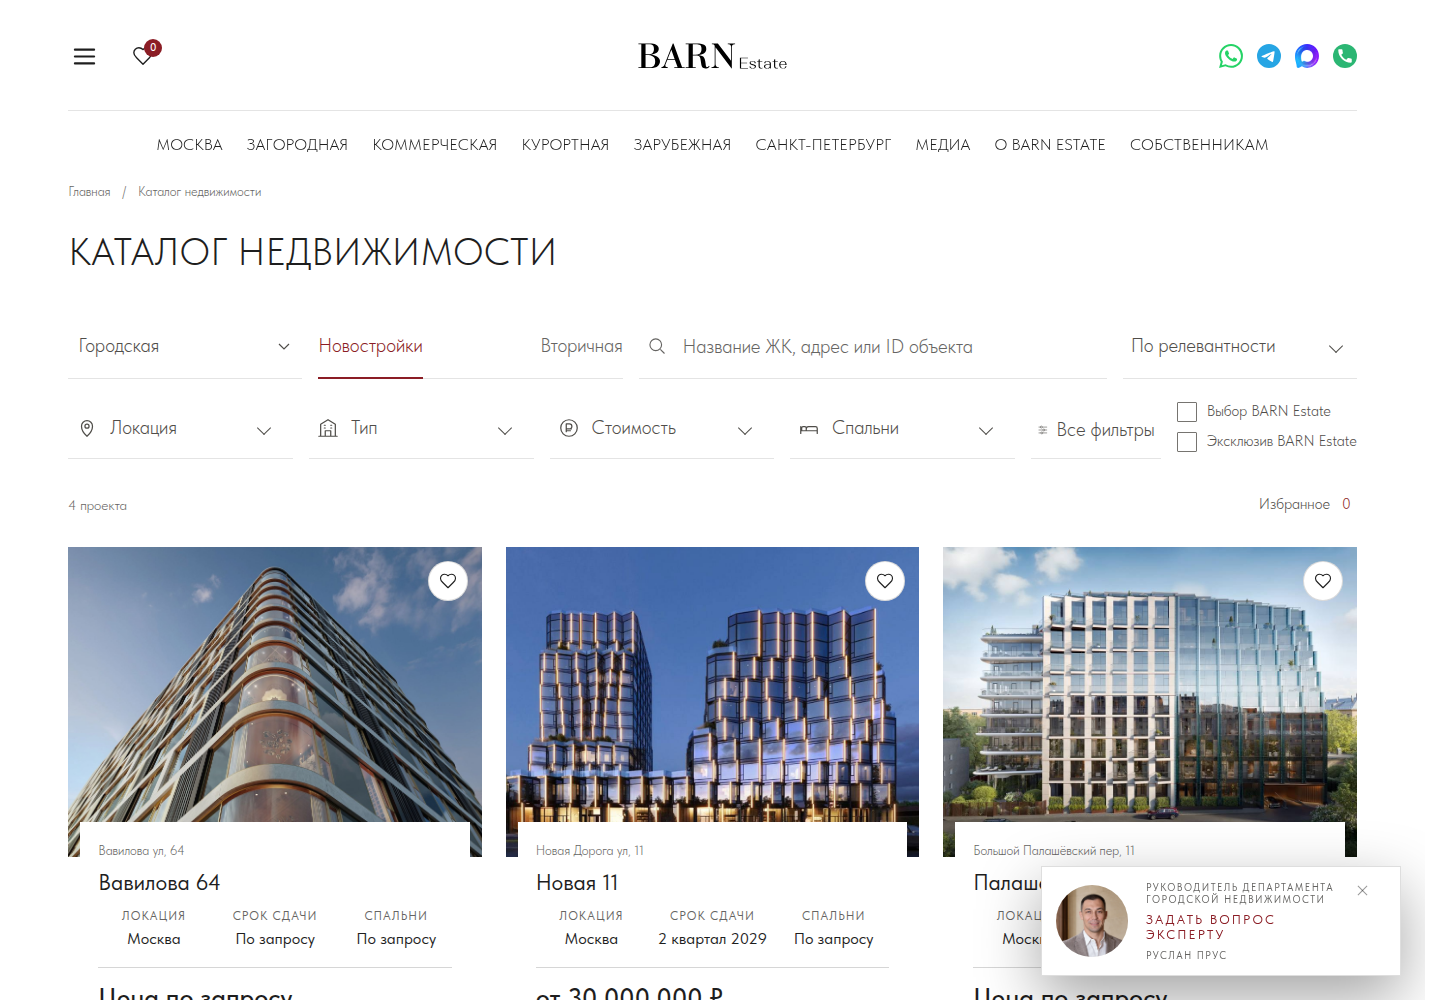
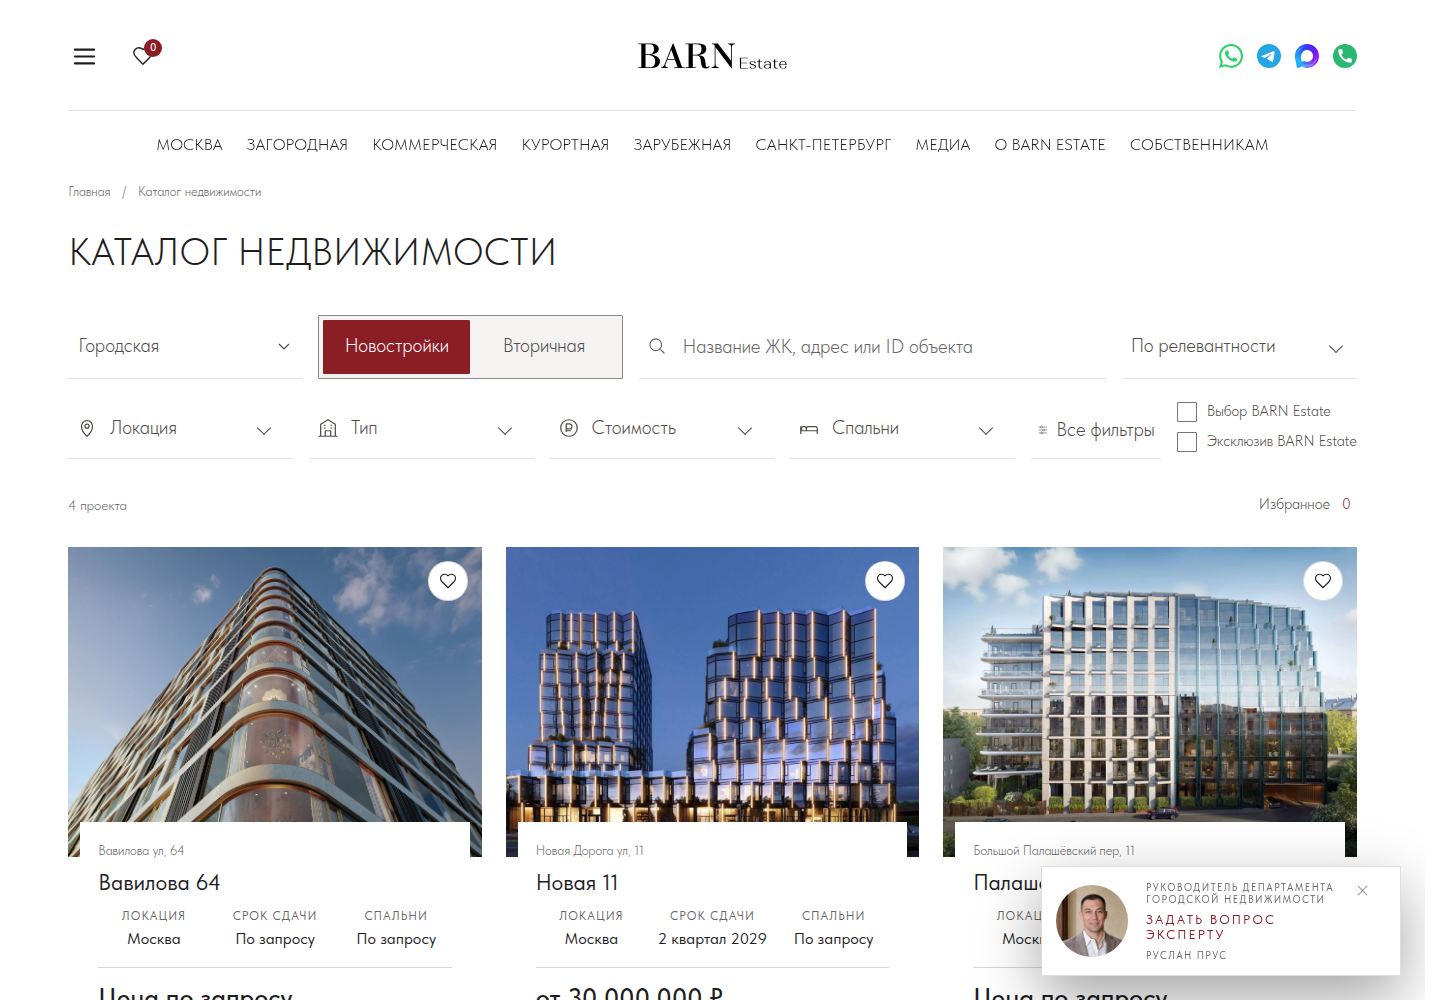
Group market choices into one segmented control

Changed region(s): [[0.2188, 0.31, 0.4375, 0.403]]

diff --git a/katalog-nedvizhimosti/index.html b/katalog-nedvizhimosti/index.html
@@ -1,7 +1,7 @@
 <!doctype html><html lang="ru"><head><meta charset="utf-8"><meta name="viewport" content="width=device-width,initial-scale=1"><meta name="robots" content="noindex,nofollow"><title>Каталог недвижимости — BARN Estate</title><meta name="description" content="Каталог недвижимости BARN Estate: новостройки и вторичная недвижимость. Локация, стоимость, тип объекта и спальни.">
 <link rel="stylesheet" href="kit/_shared/source.css"><link rel="stylesheet" href="kit/_shared/ui-kit.css"><link rel="stylesheet" href="kit/_shared/listing-mode.css"><link rel="stylesheet" href="kit/_shared/brand-filters.css"><link rel="stylesheet" href="reference-shell/live-header.css?v=20261101-kit-v1"><link rel="stylesheet" href="reference-shell/menu.css?v=20261101-kit-v1"><link rel="stylesheet" href="listing.css?v=20261101-kit-v1">
 <script src="kit/filters-modal/filters-template.js" defer></script><script src="direction-profiles.js?v=20261019-directions" defer></script><script src="filter-adapter.js?v=20261101-kit-v1" defer></script><script src="kit/filters-modal/filters-modal.js" defer></script><script src="kit/quick-filter-dropdowns/quick-filters.js?v=20261101-kit-v1" defer></script><script src="kit/quick-filter-dropdowns/brand-filters.js?v=20261101-kit-v1" defer></script><script src="kit-v1/quiz.js?v=20261101" defer></script><script src="listing.js?v=20261101-kit-v1" defer></script>
-<link rel="stylesheet" href="kit-v1/footer.css?v=20261101"><link rel="stylesheet" href="kit-v1/quiz.css?v=20261101"><link rel="stylesheet" href="kit-v1/home-typography.css?v=20261101"><link rel="stylesheet" href="kit-v1/home-spacing.css?v=20261101"><link rel="stylesheet" href="kit-v1/home-header-contacts.css?v=20261101"><link rel="stylesheet" href="kit-v1/home-buttons.css?v=20261101"><link rel="stylesheet" href="catalog-kit-v1.css?v=20261101"></head><body data-home-spacing-ready="true" class="barnes-header-template catalog-listing-page barnes-home-typography"><a class="skip-link" href="#results">Перейти к объектам</a><div class="layout__header" data-v-47bd53e9=""><header class="site-header site-header--catalog" data-v-47bd53e9="" data-v-63dbb988=""><div class="site-header__inner base-container" data-v-63dbb988=""><div class="site-header__top" data-v-63dbb988=""><div class="site-header__left" data-v-63dbb988=""><button type="button" class="site-header__icon-btn" aria-expanded="false" aria-controls="site-mobile-menu" aria-label="Открыть меню" data-v-63dbb988=""><span class="ui-icon ui-icon-current site-header__icon" data-v-63dbb988="" data-v-8bd2f545=""><svg xmlns="http://www.w3.org/2000/svg" width="24" height="24" viewBox="0 0 24 24" fill="none" stroke="currentColor" stroke-width="1.5" stroke-linecap="round">
+<link rel="stylesheet" href="kit-v1/footer.css?v=20261101"><link rel="stylesheet" href="kit-v1/quiz.css?v=20261101"><link rel="stylesheet" href="kit-v1/home-typography.css?v=20261101"><link rel="stylesheet" href="kit-v1/home-spacing.css?v=20261101"><link rel="stylesheet" href="kit-v1/home-header-contacts.css?v=20261101"><link rel="stylesheet" href="kit-v1/home-buttons.css?v=20261101"><link rel="stylesheet" href="catalog-kit-v1.css?v=20261101-segments"></head><body data-home-spacing-ready="true" class="barnes-header-template catalog-listing-page barnes-home-typography"><a class="skip-link" href="#results">Перейти к объектам</a><div class="layout__header" data-v-47bd53e9=""><header class="site-header site-header--catalog" data-v-47bd53e9="" data-v-63dbb988=""><div class="site-header__inner base-container" data-v-63dbb988=""><div class="site-header__top" data-v-63dbb988=""><div class="site-header__left" data-v-63dbb988=""><button type="button" class="site-header__icon-btn" aria-expanded="false" aria-controls="site-mobile-menu" aria-label="Открыть меню" data-v-63dbb988=""><span class="ui-icon ui-icon-current site-header__icon" data-v-63dbb988="" data-v-8bd2f545=""><svg xmlns="http://www.w3.org/2000/svg" width="24" height="24" viewBox="0 0 24 24" fill="none" stroke="currentColor" stroke-width="1.5" stroke-linecap="round">
   <path d="M5 7h14"></path>
   <path d="M5 12h14"></path>
   <path d="M5 17h14"></path>

diff --git a/katalog-nedvizhimosti/catalog-kit-v1.css b/katalog-nedvizhimosti/catalog-kit-v1.css
@@ -84,3 +84,10 @@ html body.catalog-listing-page .catalog-grid__item{container-type:inline-size}
 html body.catalog-listing-page .resort-filters .ui-checkbox__box{border-color:#8b8986!important;border-radius:1px}
 html body.catalog-listing-page .resort-filters .ui-checkbox__input:checked+.ui-checkbox__box{background:#8b1d25!important;border-color:#8b1d25!important;box-shadow:none!important}
 html body.catalog-listing-page .resort-filters .ui-checkbox__input:checked+.ui-checkbox__box .ui-checkbox__icon{display:block!important;color:#fff}
+/* A single segmented shape groups the mutually exclusive market/deal choices. */
+html body.catalog-listing-page .catalog-toolbar__primary .catalog-mode-switch{box-sizing:border-box;display:flex;gap:0;padding:4px;border:1px solid #8b8986;border-radius:1px;background:#f5f3f1}
+html body.catalog-listing-page .catalog-toolbar__primary .catalog-mode-switch__button{box-sizing:border-box;flex:1 1 0;min-width:0;height:54px;min-height:0;padding:0 2px;border:0;border-radius:1px;background:transparent;color:#4f4d49;text-align:center;transition:background-color .15s ease,color .15s ease}
+html body.catalog-listing-page .catalog-toolbar__primary .catalog-mode-switch__button.is-active{background:#8b1d25;color:#fff}
+html body.catalog-listing-page .catalog-toolbar__primary .catalog-mode-switch__button.is-active::after{display:none}
+html body.catalog-listing-page .catalog-toolbar__primary .catalog-mode-switch__button:not(.is-active):hover{background:#eae7e3;color:#1e1e1e}
+html body.catalog-listing-page .catalog-toolbar__primary .catalog-mode-switch__button:focus-visible{outline:2px solid #1e1e1e;outline-offset:-3px}

diff --git a/katalog-nedvizhimosti/README.md b/katalog-nedvizhimosti/README.md
@@ -33,3 +33,7 @@ node katalog-nedvizhimosti/tools/check_kit_v1.cjs
 Результаты — в [verification/](verification/): 34 сценария каталога, 50 сочетаний панели, 15 ширин 320–2560 и контракты нового кита, реальные клавиатурные действия dropdown, формы/ошибки/контекст/возврат фокуса, axe WCAG A/AA, отсутствие ошибок загрузки. Квиз проверяется с синтетическими данными и без отправки. Публичная проверка после публикации сохраняется отдельно в `verification/live/`.
 
 [План переноса](PLAN.md). Рабочие исходники и отчёты также сохраняются в приватном `barnes-sites/main-site/pages/catalog/`; этот репозиторий — публичное GitHub Pages превью.
+
+## Общий переключатель рынка — 01.11.2026
+
+«Новостройки» и «Вторичная» объединены общей рамкой высотой 64 px; выбранный сегмент залит фирменным бордовым. В направлениях со сделкой так же группируются «Купить / Снять». Сохранены две строки, размеры текста, `aria-pressed` и существующие обработчики. Компонент оформлен локальным CSS поверх утверждённого кита, без новых библиотек.
